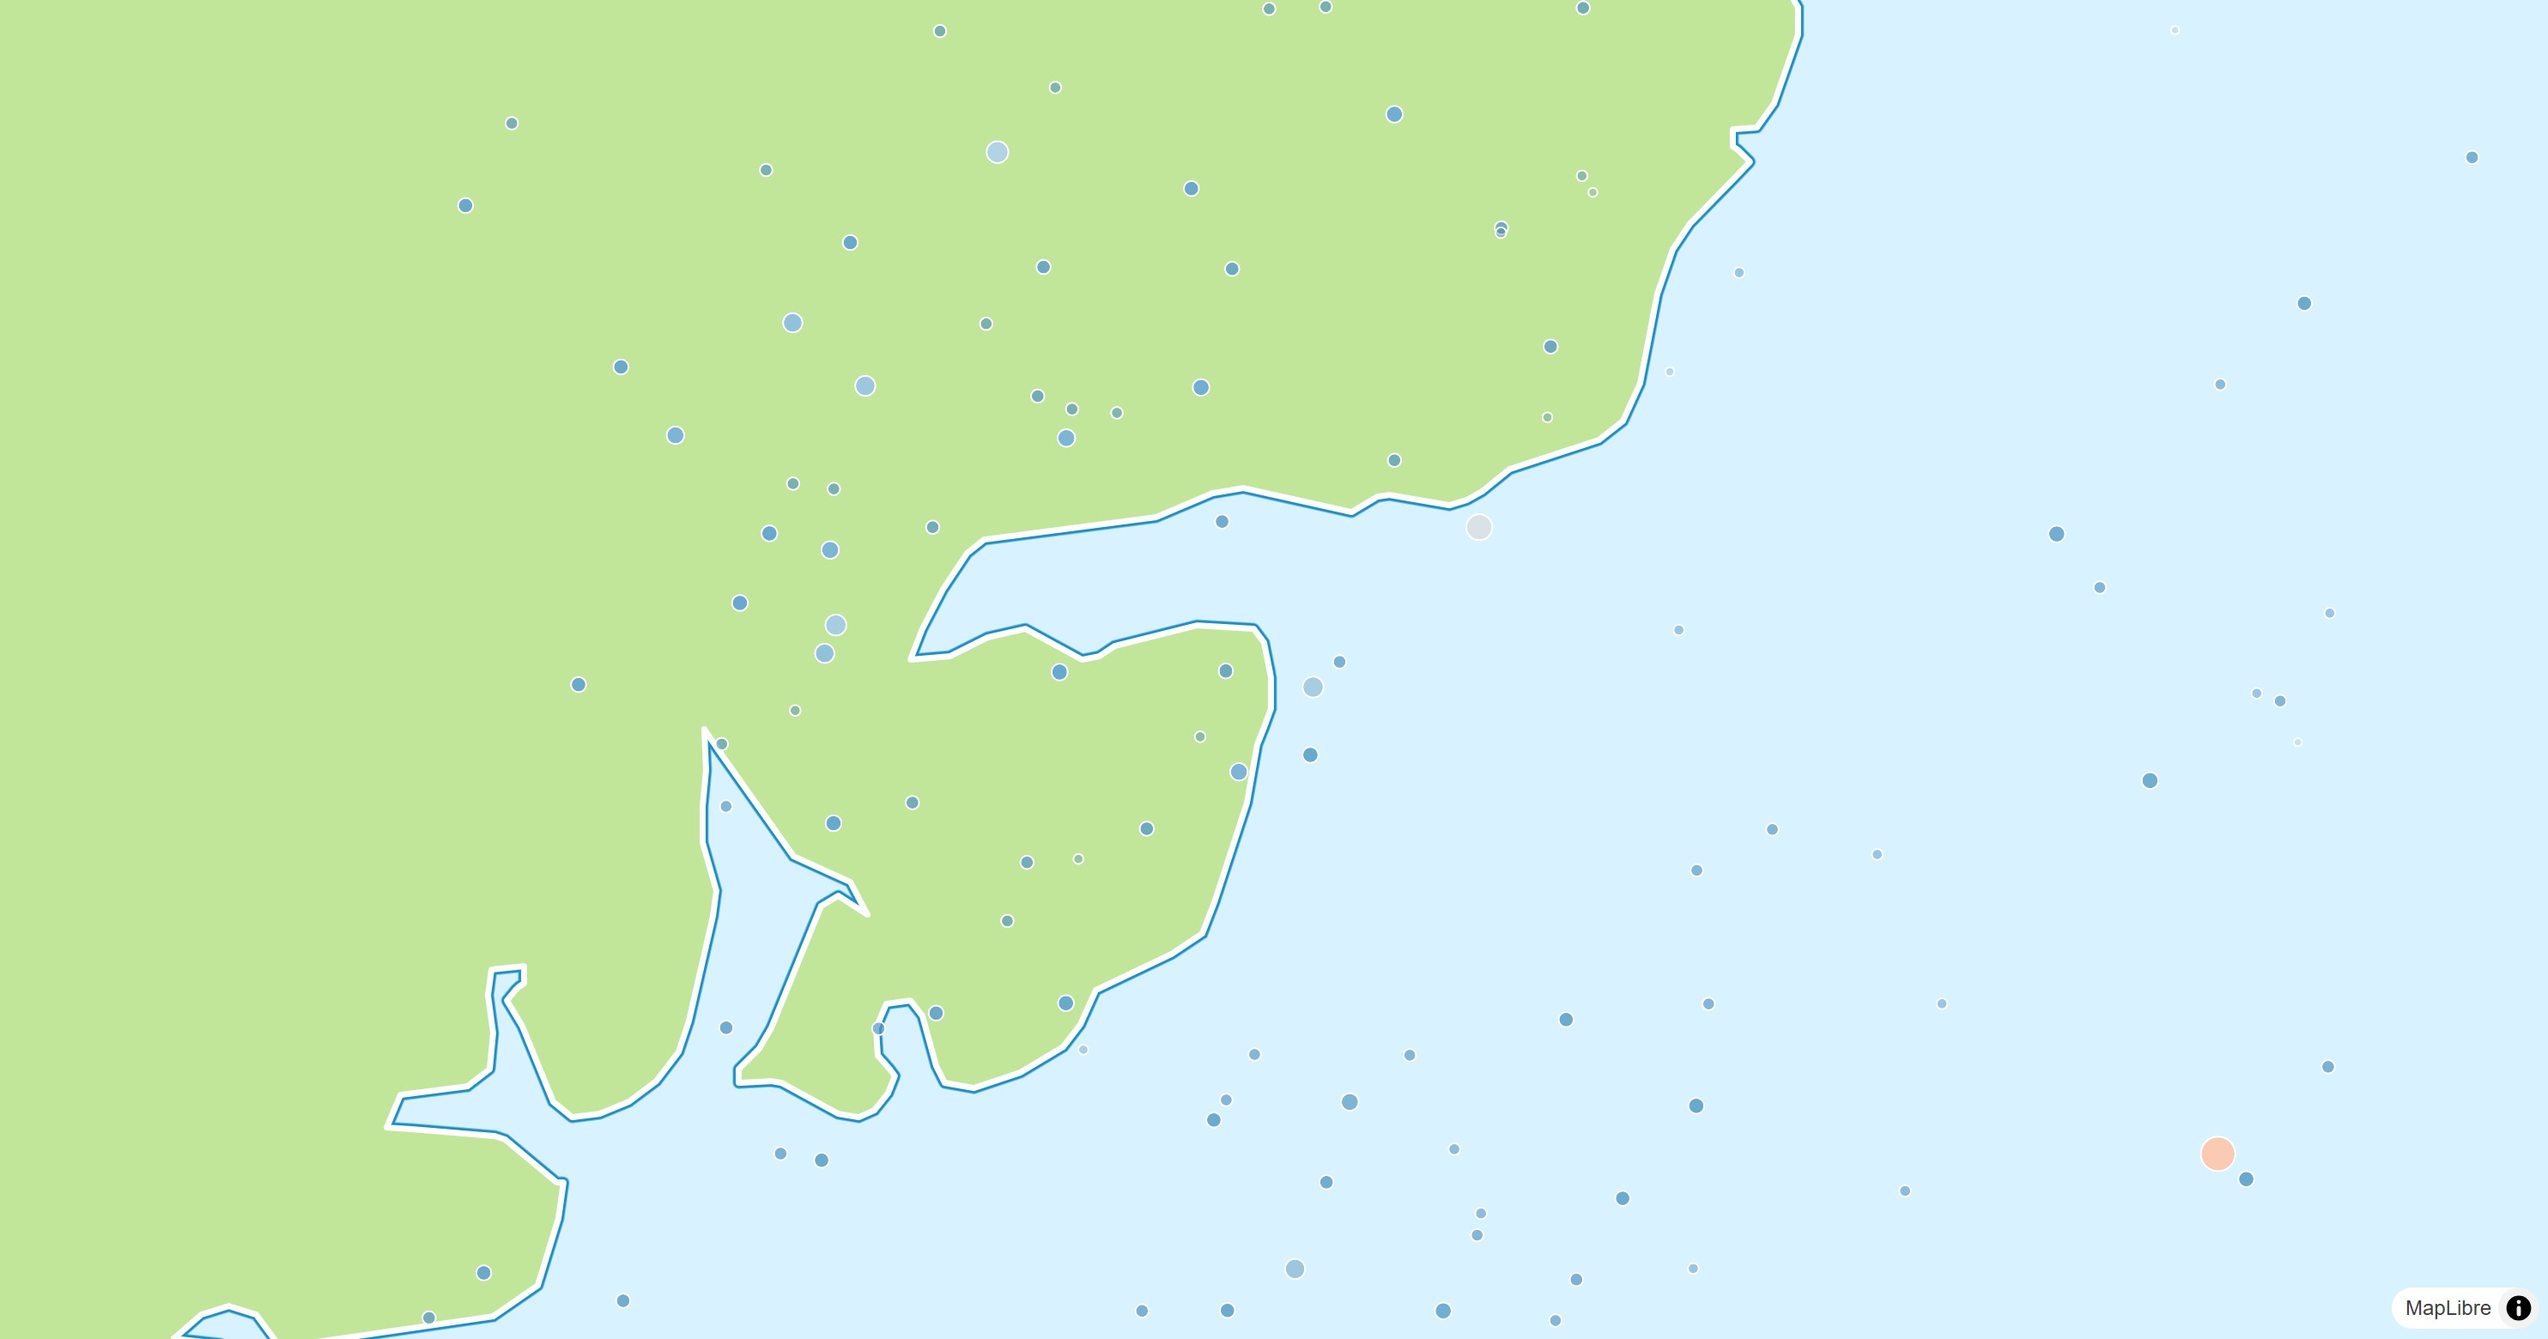
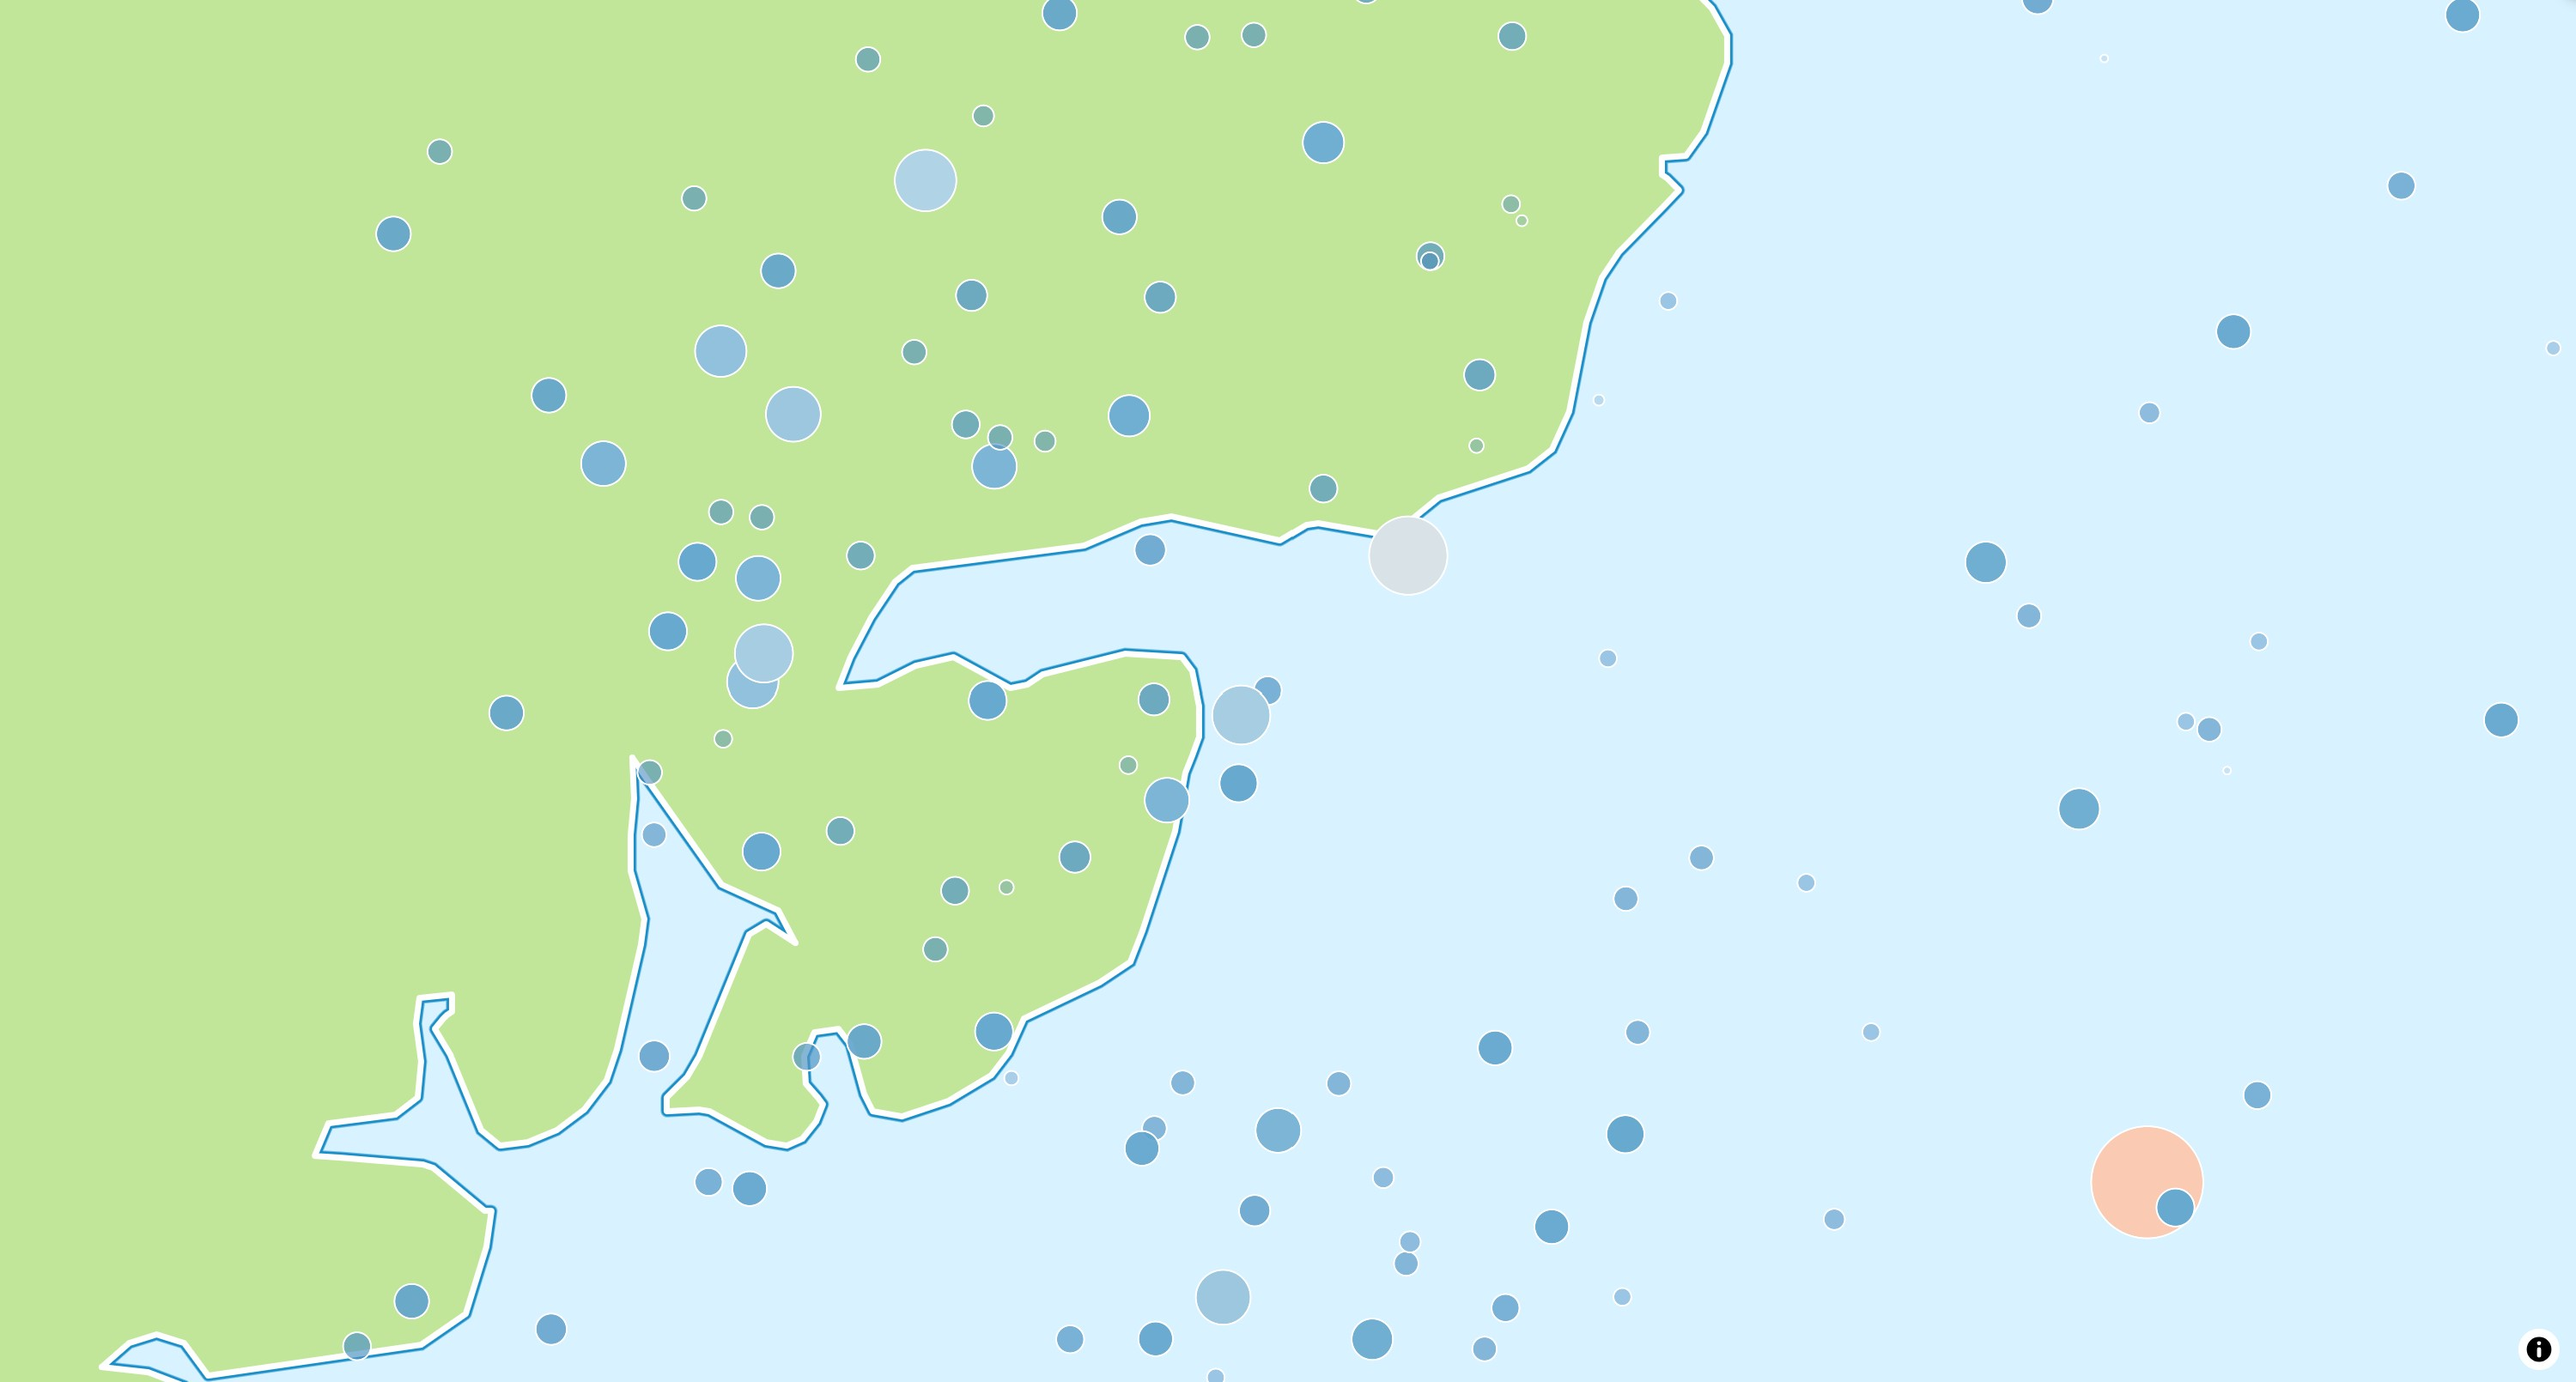
fix: test example app (#95)
- late AnnotationManager on web
- update circles example image
- add Wrap spacing

diff --git a/lib/src/web/widget_state.dart b/lib/src/web/widget_state.dart
@@ -21,7 +21,7 @@ final class MapLibreMapStateWeb extends State<MapLibreMap>
   late interop.JsMap _map;
   Completer<interop.MapLibreEvent>? _movementCompleter;
   bool _nextGestureCausedByController = false;
-  late AnnotationManager _annotationManager;
+  AnnotationManager? _annotationManager;
 
   MapOptions get _options => widget.options;
 
@@ -229,7 +229,7 @@ final class MapLibreMapStateWeb extends State<MapLibreMap>
     if (_options.gestures != oldWidget.options.gestures) {
       _updateGestures(_options.gestures);
     }
-    _annotationManager.updateLayers(widget.layers);
+    _annotationManager?.updateLayers(widget.layers);
     super.didUpdateWidget(oldWidget);
   }
 

diff --git a/docs/src/pages/index.tsx b/docs/src/pages/index.tsx
@@ -22,6 +22,11 @@ function HomepageHeader() {
             to="/docs/getting-started/add-dependency">
             Getting Started
           </Link>
+          <Link
+            className="button button--secondary button--lg"
+            to="/demo">
+            Example App
+          </Link>
         </div>
       </div>
     </header>

diff --git a/example/lib/annotations_mixed_page.dart b/example/lib/annotations_mixed_page.dart
@@ -34,6 +34,7 @@ class _AnnotationsMixedPageState extends State<AnnotationsMixedPage> {
             padding: const EdgeInsets.all(8),
             child: Wrap(
               spacing: 8,
+              runSpacing: 2,
               alignment: WrapAlignment.center,
               children: [
                 OutlinedButton(

diff --git a/example/lib/user_location_page.dart b/example/lib/user_location_page.dart
@@ -26,6 +26,7 @@ class _UserLocationPageState extends State<UserLocationPage> {
             padding: const EdgeInsets.all(8),
             child: Wrap(
               spacing: 8,
+              runSpacing: 2,
               alignment: WrapAlignment.center,
               children: [
                 OutlinedButton(

diff --git a/example/lib/controller_page.dart b/example/lib/controller_page.dart
@@ -25,6 +25,7 @@ class _ControllerPageState extends State<ControllerPage> {
             padding: const EdgeInsets.all(8),
             child: Wrap(
               spacing: 8,
+              runSpacing: 2,
               alignment: WrapAlignment.center,
               children: [
                 OutlinedButton(

diff --git a/example/lib/gestures_page.dart b/example/lib/gestures_page.dart
@@ -26,6 +26,7 @@ class _GesturesPageState extends State<GesturesPage> {
             padding: const EdgeInsets.all(8),
             child: Wrap(
               spacing: 8,
+              runSpacing: 2,
               children: Gestures.values
                   .map(
                     (e) => ChoiceChip(

diff --git a/example/lib/layers_circle_page.dart b/example/lib/layers_circle_page.dart
@@ -62,16 +62,6 @@ const _circleLayer = CircleLayer(
         1,
         1,
         6,
-        4
-      ],
-      16,
-      [
-        'interpolate',
-        ['linear'],
-        ['get', 'mag'],
-        1,
-        5,
-        6,
         50
       ]
     ],

diff --git a/example/lib/two_maps_page.dart b/example/lib/two_maps_page.dart
@@ -60,6 +60,7 @@ class _ButtonsWidget extends StatelessWidget {
       padding: const EdgeInsets.all(8),
       child: Wrap(
         spacing: 8,
+        runSpacing: 2,
         children: [
           OutlinedButton(
             onPressed: () {

diff --git a/docs/src/pages/index.module.css b/docs/src/pages/index.module.css
@@ -23,5 +23,5 @@
 .buttons {
   display: flex;
   align-items: center;
-  justify-content: center;
+  justify-content: space-evenly;
 }

diff --git a/README.md b/README.md
@@ -41,7 +41,7 @@ functionality.
     <tr>
       <td style="text-align: center;">
         <strong>Add circles</strong>
-        <img src="https://raw.githubusercontent.com/josxha/flutter-maplibre/427311f8f4577c215bf73caf46e3769629e74e3b/docs/static/img/layers/circle_layer.jpg" alt="Circle Layer" />
+        <img src="https://raw.githubusercontent.com/josxha/flutter-maplibre/fe660b8d1c055d32e74cbc2ee0809281331a130b/docs/static/img/layers/circle_layer.jpg" alt="Circle Layer" />
       </td>
       <td style="text-align: center;">
         <strong>Add 3D building outlines</strong>
